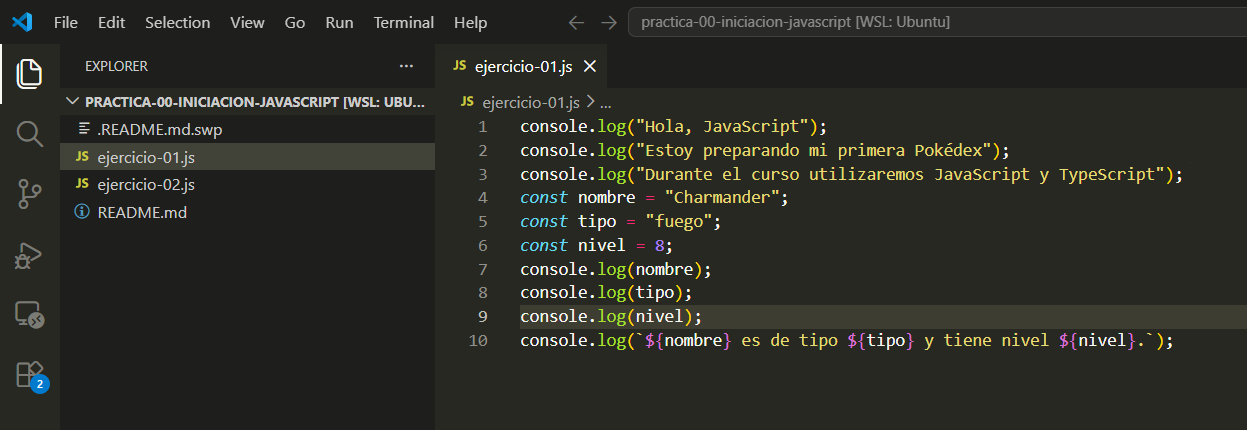
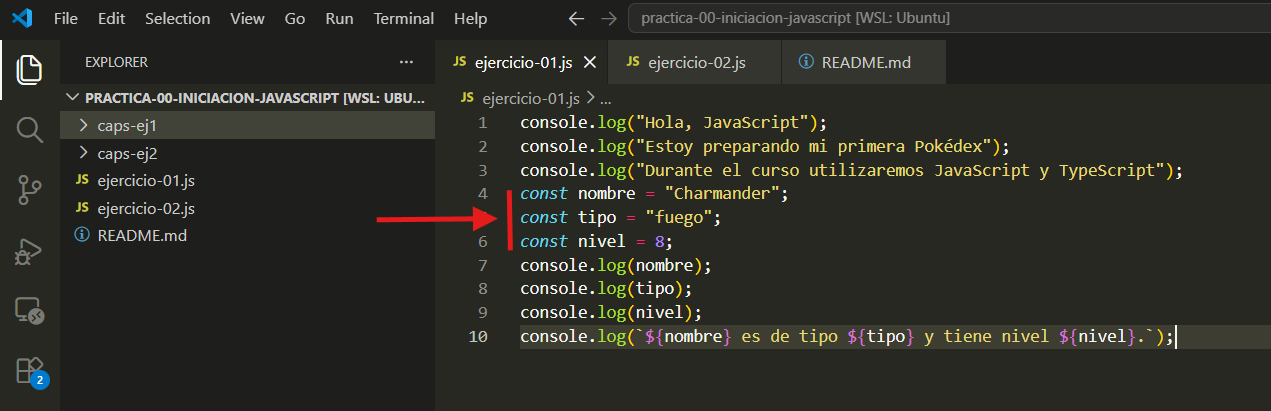
Añado capturas

diff --git a/tema-0-introduccion/practica-00-iniciacion-javascript/README.md b/tema-0-introduccion/practica-00-iniciacion-javascript/README.md
@@ -7,29 +7,29 @@ En esta práctica he preparado el repositorio del módulo y he tenido una primer
 ## Ejercicio 1. Mi primer programa
 
 En este ejercicio lo primero que he hecho ha sido abrir el Visual Studio Code y poner `console.log` que se utiliza para mostrar un mensaje, seguidamente lo he ejecutado en la terminal.
-
+![IMG](./caps-ej1/cap1.png)![IMG](./caps-ej1/cap2.png)
 Despues he añadido otros dos `console.log` para mostrar más mensajes.
-
+![IMG](./caps-ej1/cap3.png)![IMG](./caps-ej1/cap4.png)
 En el siguiente paso he creado unas variables que nos permiten guardar un dato para utilizarlo después más adelante.
-
+![IMG](./caps-ej1/cap5.png)
 Ahora pues podemos poner dentro de los `console.log` las variables que hemos puesto antes para mostrarlas.
-
+![IMG](./caps-ej1/cap6.png)![IMG](./caps-ej1/cap7.png)
 También podemos construir una frase usando estas variables como se puede ver en la captura.
-
+![IMG](./caps-ej1/cap8.png)![IMG](./caps-ej1/cap9.png)
 Y ahora en el momento que cambiemos el valor de las variables pues cambiará el resultado.
-
+![IMG](./caps-ej1/cap10.png)![IMG](./caps-ej11/cap1.png)
 ## Ejercicio 2. Operaciones básicas
 
 En este ejercicio primero se declaran unas variables las cuales después se utilizan para hacer una operación que consiste
 en sumar la `experienciaActual` con la `experienciaGanada` para que dé otra variable que se llame `experienciaTotal`.
-
+![IMG](./caps-ej2/cap12.png)
 Seguidamente muestra unas frases contruídas con esas variables.
-
+![IMG](./caps-ej2/cap13.png)![IMG](./caps-ej2/cap14.png)
 Y por último hay una ultima parte que es un `if` que lo que hace es que si su `experienciaTotal` es mayor o igual a 100
 puede subir de nivel, y si es menor pues todavía no podrá subir de nivel.
-
+![IMG](./caps-ej2/cap15.png)![IMG](./caps-ej2/cap16.png)
 Y ahora lo podemos comprobar que si se le pone un número menor que 100 en la `experienciaTotal` pues no podrá subir de nivel.
-
+![IMG](./caps-ej2/cap17.png)![IMG](./caps-ej2/cap18.png)
 
 
 ## Conceptos utilizados
